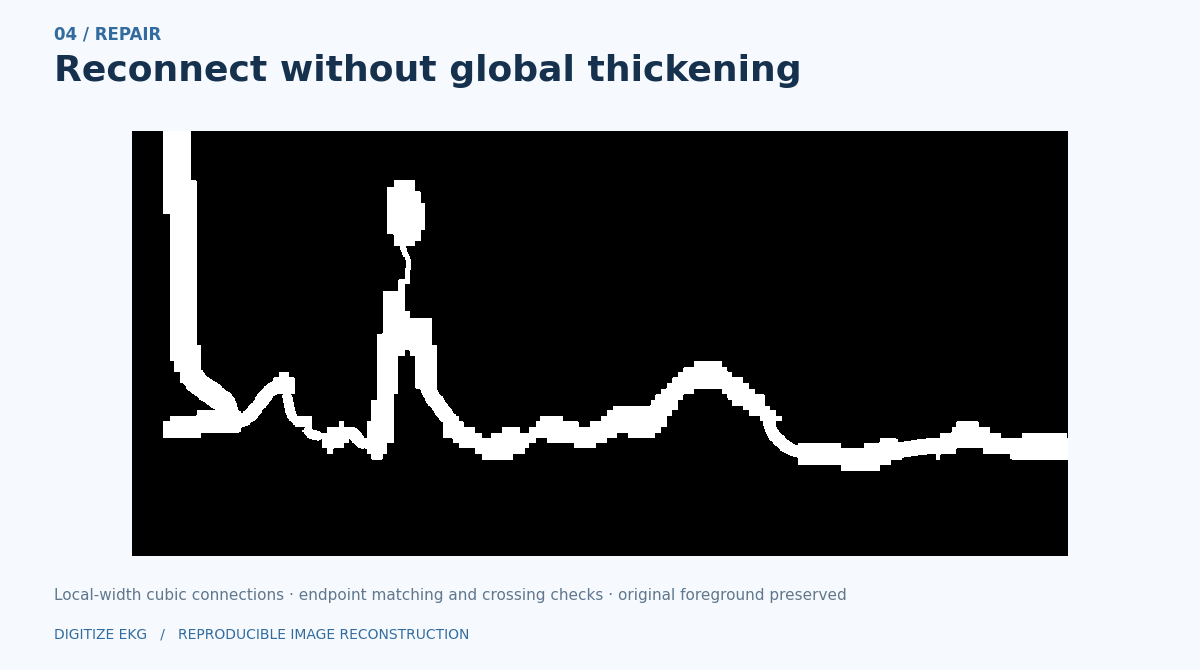
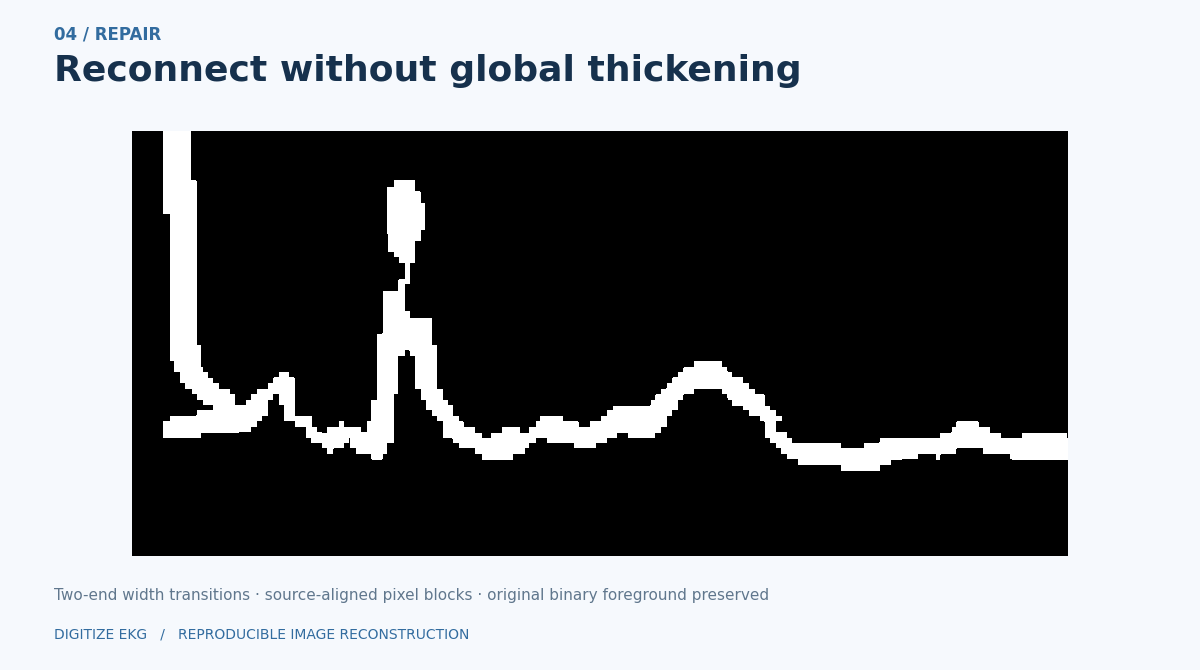
Match ECG bridges to source pixel blocks and endpoint widths

diff --git a/ecg_reconstruction.py b/ecg_reconstruction.py
@@ -8,6 +8,90 @@ import numpy as np
 from skimage.morphology import skeletonize
 
 
+@dataclass(frozen=True)
+class PixelGrid:
+    """Display-block spacing and edge phase, in input-image pixels."""
+
+    step_x: float
+    step_y: float
+    offset_x: float = 0.0
+    offset_y: float = 0.0
+
+    def __post_init__(self):
+        for step, offset in [(self.step_x, self.offset_x), (self.step_y, self.offset_y)]:
+            if not math.isfinite(step) or step < 1 or not math.isfinite(offset):
+                raise ValueError('Pixel-grid steps must be finite and at least one pixel; offsets must be finite.')
+
+
+def estimate_pixel_grid(binary):
+    """Find a strong, repeated edge lattice in a block-scaled binary image.
+
+    Searches 2–12 pixel display blocks independently on each axis. Returns None
+    when either axis has too few edges or weak periodic evidence.
+    This estimates display pixel blocks, not physical time/voltage calibration.
+    """
+    mask = np.asarray(binary) != 0
+    if mask.ndim != 2:
+        raise ValueError('Expected a 2D binary mask.')
+    estimates = []
+    periods = np.linspace(2.0, 12.0, 10001)
+    for axis in (1, 0):
+        weights = np.abs(np.diff(mask.astype(float), axis=axis)).sum(axis=1-axis)
+        positions = np.flatnonzero(weights) + 1
+        if len(positions) < 20:
+            return None
+        weights = weights[positions-1]
+        responses = []
+        for chunk in np.array_split(periods, 50):
+            response = (np.exp(2j*np.pi*positions[None, :]/chunk[:, None])*weights).sum(axis=1)
+            responses.extend(np.abs(response) / weights.sum())
+        responses = np.array(responses)
+        peak = float(responses.max())
+        if peak < .78:
+            return None
+        # Prefer the fundamental period over its shorter harmonic at a tie.
+        choices = np.flatnonzero(responses >= peak - 1e-6)
+        period = float(periods[choices[-1]])
+        z = (np.exp(2j*np.pi*positions/period)*weights).sum()
+        offset = float(np.angle(z)*period/(2*np.pi) % period)
+        estimates.append((period, offset))
+    return PixelGrid(estimates[0][0], estimates[1][0], estimates[0][1], estimates[1][1])
+
+
+def _grid_projection(image, grid):
+    """Sample the new stroke on a source-aligned coarse lattice only."""
+    maps = []
+    for length, step, offset in [(image.shape[1], grid.step_x, grid.offset_x),
+                                 (image.shape[0], grid.step_y, grid.offset_y)]:
+        k0 = math.floor(-offset/step)-1
+        k1 = math.ceil((length-offset)/step)+1
+        edges = np.unique(np.rint(offset + np.arange(k0, k1+1)*step).astype(int))
+        index = np.searchsorted(edges, np.arange(length), side='right')-1
+        centers = np.rint((edges[:-1]+edges[1:]-1)/2).astype(int)
+        maps.append(np.clip(centers[index], 0, length-1))
+    return image[np.ix_(maps[1], maps[0])]
+
+
+def _paint_connection(shape, points, a, b, grid):
+    """Blend the two local widths; optionally retain the source's block size."""
+    width_a = max(1.0, a.width-1.0)
+    width_b = max(1.0, b.width-1.0)
+    lengths = np.linalg.norm(np.diff(points.astype(float), axis=0), axis=1)
+    distance = np.r_[0.0, np.cumsum(lengths)]
+    t = distance / max(distance[-1], 1.0)
+    # A smooth width transition meets each end without a thin, constant neck.
+    blend = t*t*(3-2*t)
+    widths = width_a + (width_b-width_a)*blend
+    bridge = np.zeros(shape, dtype=np.uint8)
+    for index in range(len(points)-1):
+        thickness = max(1, int(round((widths[index]+widths[index+1])/2)))
+        cv2.line(bridge, tuple(points[index]), tuple(points[index+1]), 255,
+                 thickness=thickness, lineType=cv2.LINE_8)
+    if grid is not None:
+        bridge = _grid_projection(bridge, grid)
+    return bridge, [max(1, int(round(width_a))), max(1, int(round(width_b)))]
+
+
 @dataclass
 class Endpoint:
     xy: np.ndarray
@@ -93,13 +177,15 @@ def _curve(a, b, span):
 
 
 def repair_trace(binary, *, max_gap=65.0, tangent_span=15.0,
-                 max_endpoint_angle=110.0, max_mean_angle=70.0):
+                 max_endpoint_angle=110.0, max_mean_angle=70.0, pixel_grid=None):
     """Reconnect compatible endpoints without thickening the existing trace.
 
     Input is a 2D binary mask with nonzero foreground. Matching uses outward
     tangents, distinct components, one connection per endpoint, and collision
-    checks. Uncertain or obstructed pairs remain disconnected. All distances
-    are in pixels; this function does not infer calibrated ECG samples.
+    checks. Width transitions match both endpoints. An optional PixelGrid keeps
+    newly drawn connections on the source block lattice. Uncertain or obstructed
+    pairs remain disconnected. All distances are in pixels; this function does
+    not infer calibrated ECG samples.
     """
     array = np.asarray(binary)
     if array.ndim != 2 or array.size == 0:
@@ -147,10 +233,7 @@ def repair_trace(binary, *, max_gap=65.0, tangent_span=15.0,
         if i in used or j in used or root(a.component) == root(b.component):
             continue
         points = _curve(a, b, tangent_span)
-        # Match the thinner local trace; bounding-box width is not line width.
-        line_width = max(1, int(round(min(a.width, b.width))) - 1)
-        bridge = np.zeros(mask.shape, dtype=np.uint8)
-        cv2.polylines(bridge, [points], False, 255, thickness=line_width, lineType=cv2.LINE_8)
+        bridge, endpoint_widths = _paint_connection(mask.shape, points, a, b, pixel_grid)
         # Reject crossings of a third component, including the bridge's width.
         third = mask & (components != a.component) & (components != b.component)
         if np.any((bridge != 0) & third):
@@ -162,6 +245,12 @@ def repair_trace(binary, *, max_gap=65.0, tangent_span=15.0,
         outside_caps = (bridge != 0) & (caps == 0)
         if np.any(outside_caps & (mask | (added != 0))):
             continue
+        if pixel_grid is not None:
+            # Coarse sampling can erase a narrow section. Accept only a real
+            # connection, with no detached blocks, before updating the graph.
+            joined = (bridge != 0) | (components == a.component) | (components == b.component)
+            if cv2.connectedComponents(joined.astype(np.uint8), connectivity=8)[0] != 2:
+                continue
         new_pixels = (bridge != 0) & ~mask
         if not np.any(new_pixels):
             continue
@@ -169,7 +258,7 @@ def repair_trace(binary, *, max_gap=65.0, tangent_span=15.0,
         parent[root(a.component)] = root(b.component)
         used.update((i, j))
         bridges.append({'start_xy': a.xy.astype(int).tolist(), 'end_xy': b.xy.astype(int).tolist(),
-                        'gap_px': round(gap, 3), 'width_px': line_width,
+                        'gap_px': round(gap, 3), 'endpoint_widths_px': endpoint_widths,
                         'endpoint_angles_deg': [round(angle_a, 2), round(angle_b, 2)],
                         'score': round(score, 3), 'path_xy': points.tolist()})
     output = (mask.astype(np.uint8) * 255) | added

diff --git a/scripts/build_demo.py b/scripts/build_demo.py
@@ -43,8 +43,9 @@ cv2.imwrite(str(RAW / 'input-skeleton.png'), skeleton)
 added = cv2.imread(str(OUTPUTS / 'tangent-added.png'), cv2.IMREAD_GRAYSCALE)
 repaired_skeleton = cv2.imread(str(OUTPUTS / 'tangent-skeleton.png'), cv2.IMREAD_GRAYSCALE)
 bridge_records = json.loads((OUTPUTS / 'tangent-bridges.json').read_text())
+pixel_grid = json.loads((OUTPUTS / 'tangent-grid.json').read_text())
 pairs = len(bridge_records)
-for name in ['tangent-added.png', 'tangent-skeleton.png', 'tangent-bridges.json']:
+for name in ['tangent-added.png', 'tangent-skeleton.png', 'tangent-bridges.json', 'tangent-grid.json']:
     shutil.copyfile(OUTPUTS / name, RAW / name)
 debug = cv2.cvtColor(((source > 127) * 255).astype(np.uint8), cv2.COLOR_GRAY2RGB)
 debug[added > 0] = [232, 164, 76]
@@ -61,7 +62,7 @@ stages = [
     ('03 / CONNECTIONS', 'Inspect the accepted bridges', debug,
      f'{pairs} accepted bridges · amber = newly added pixels · white = original binary foreground'),
     ('04 / REPAIR', 'Reconnect without global thickening', results['tangent-bridged'],
-     'Local-width cubic connections · endpoint matching and crossing checks · original foreground preserved'),
+     'Two-end width transitions · source-aligned pixel blocks · original binary foreground preserved'),
     ('05 / REVIEW', 'Review the repaired centerline', repaired_skeleton,
      'Skeleton of the repaired image · inferred connections require review against the source'),
 ]
@@ -103,12 +104,44 @@ fig.text(.035, .041, '8-connected foreground components on this crop only. Fewer
 fig.savefig(ASSETS / 'method-comparison.png', dpi=150, facecolor=BG)
 plt.close(fig)
 
+# Same-coordinate, nearest-neighbor close-ups preserve the actual pixel grain.
+# The previous result is a frozen output from commit 987aff9, not a rerender.
+prior = cv2.imread(str(RAW / 'prior-tangent-bridged.png'), cv2.IMREAD_GRAYSCALE)
+if prior is None or prior.shape != source.shape:
+    raise ValueError('The historical repair snapshot is missing or has the wrong shape.')
+fig, axes = plt.subplots(2, 3, figsize=(12, 9), dpi=100, facecolor=BG)
+fig.subplots_adjust(left=.045, right=.955, top=.82, bottom=.11, hspace=.22, wspace=.09)
+fig.text(.045, .95, 'DETAIL / SAME SOURCE PIXELS AT EVERY STAGE', color=BLUE, fontsize=12, weight='bold')
+fig.text(.045, .898, 'Matching the source pixel grid', color=INK, fontsize=25, weight='bold')
+detail_windows = [('Upper gap', 215, 82, 90), ('Descending gap', 565, 245, 90)]
+for row, (region, x, y, size) in enumerate(detail_windows):
+    for col, (title, data) in enumerate([
+        ('Input fragments', ((source > 127)*255).astype(np.uint8)),
+        ('Previous connection', prior),
+        ('Pixel-matched connection', results['tangent-bridged']),
+    ]):
+        ax = axes[row, col]
+        ax.imshow(data[y:y+size, x:x+size], cmap='gray', vmin=0, vmax=255, interpolation='nearest')
+        if row == 0:
+            ax.set_title(title, color=INK, fontsize=12, pad=10)
+        if col == 0:
+            ax.set_ylabel(region, color=MUTED, fontsize=11, labelpad=12)
+        ax.set_xticks([])
+        ax.set_yticks([])
+        for spine in ax.spines.values():
+            spine.set_color('#d9e5f0')
+fig.text(.045, .067, 'Widths transition between both endpoints; new pixels follow the source’s approximately 5 px blocks.', color=MUTED, fontsize=11)
+fig.text(.045, .039, 'Two 90 × 90 px crops · identical coordinates and magnification · original binary foreground preserved', color=MUTED, fontsize=10)
+fig.savefig(ASSETS / 'pixel-detail.png', dpi=100, facecolor=BG)
+plt.close(fig)
+
 metrics = {
     'source': 'result/example.png',
     'shape_height_width': list(source.shape),
     'connectivity': 8,
     'foreground_components': counts,
     'tangent_repair': {'max_gap_px': 65, 'tangent_span_px': 15, 'accepted_bridges': pairs,
+                       'source_display_grid': pixel_grid,
                        'added_foreground_pixels': int(np.count_nonzero(added)),
                        'original_foreground_preserved': bool(np.all(results['tangent-bridged'][source > 127] == 255))},
     'interpretation': 'Connectivity counts for one repository crop; not waveform accuracy or clinical validation.',
@@ -145,4 +178,4 @@ for name, title, width in [('python','Python',75),('opencv','OpenCV',84),('skima
     content+=text(width/2,17,title,12,'#426b8d',600,'text-anchor="middle"')
     svg(name+'.svg',width,26,content,title)
 print(json.dumps(metrics, indent=2))
-print('Built header, technology labels, walkthrough, and method comparison.')
+print('Built header, technology labels, walkthrough, method comparison, and pixel close-ups.')

diff --git a/tests/test_reconstruction.py b/tests/test_reconstruction.py
@@ -5,7 +5,7 @@ import cv2
 import numpy as np
 from skimage.measure import label
 
-from ecg_reconstruction import repair_trace
+from ecg_reconstruction import PixelGrid, estimate_pixel_grid, repair_trace
 
 
 def components(image):
@@ -86,6 +86,55 @@ class ReconstructionTests(unittest.TestCase):
         self.assertEqual(result.bridges, [])
         self.assertFalse(np.any(result.image))
 
+    def test_unequal_widths_meet_both_ends_without_a_thin_neck(self):
+        image = np.zeros((110, 220), np.uint8)
+        cv2.line(image, (15, 55), (83, 55), 255, 5)
+        cv2.line(image, (133, 55), (205, 55), 255, 15)
+        result = repair_trace(image, max_gap=70)
+        widths = np.count_nonzero(result.image, axis=0)
+        self.assertEqual(components(result.image), 1)
+        self.assertEqual(len(result.bridges), 1)
+        self.assertEqual(widths[88], widths[75])
+        self.assertEqual(widths[123], widths[150])
+        self.assertTrue(np.all(np.diff(widths[88:124]) >= 0))
+        self.assertGreater(widths[110], widths[88])
+        self.assertTrue(np.all(result.image[image != 0] == 255))
+
+    def test_coarse_connections_preserve_pixel_blocks_and_phase(self):
+        low = np.zeros((36, 64), np.uint8)
+        cv2.line(low, (4, 18), (59, 18), 255, 2)
+        truth = np.repeat(np.repeat(low, 5, axis=0), 5, axis=1)
+        broken = truth.copy()
+        broken[:, 135:170] = 0
+        for dx, dy in [(0, 0), (2, 3)]:
+            image = np.pad(broken, ((dy, 5-dy), (dx, 5-dx)))
+            expected = np.pad(truth, ((dy, 5-dy), (dx, 5-dx)))
+            result = repair_trace(image, max_gap=60, pixel_grid=PixelGrid(5, 5, dx, dy))
+            self.assertEqual(len(result.bridges), 1)
+            self.assertEqual(components(result.image), 1)
+            self.assertTrue(np.array_equal(result.image, expected))
+            cells = result.image[dy:dy+180, dx:dx+320].reshape(36, 5, 64, 5)
+            self.assertTrue(np.all(cells.min(axis=(1, 3)) == cells.max(axis=(1, 3))))
+
+    def test_display_grid_estimate_recovers_scale_and_phase(self):
+        low = np.zeros((80, 100), np.uint8)
+        x = np.arange(5, 95)
+        y = np.rint(40 + 27*np.sin(x/9)).astype(int)
+        cv2.polylines(low, [np.column_stack([x, y]).astype(np.int32)], False, 255, 3)
+        image = np.pad(np.repeat(np.repeat(low, 5, axis=0), 5, axis=1), ((3, 2), (2, 3)))
+        grid = estimate_pixel_grid(image)
+        self.assertIsNotNone(grid)
+        for actual, expected in [(grid.step_x, 5), (grid.step_y, 5),
+                                 (grid.offset_x, 2), (grid.offset_y, 3)]:
+            self.assertAlmostEqual(actual, expected, places=2)
+
+    def test_grid_estimation_does_not_force_weak_or_sparse_evidence(self):
+        noise = np.random.default_rng(42).integers(0, 2, (120, 150), dtype=np.uint8)
+        self.assertIsNone(estimate_pixel_grid(noise))
+        line = np.zeros((60, 90), np.uint8)
+        line[25:30, 10:80] = 255
+        self.assertIsNone(estimate_pixel_grid(line))
+
     def test_invalid_inputs_are_rejected(self):
         with self.assertRaises(ValueError):
             repair_trace(np.zeros((10, 10, 3)))
@@ -93,6 +142,8 @@ class ReconstructionTests(unittest.TestCase):
             repair_trace(np.full((10, 10), 127))
         with self.assertRaises(ValueError):
             repair_trace(np.zeros((10, 10)), max_gap=0)
+        with self.assertRaises(ValueError):
+            PixelGrid(0, 5)
 
 
 if __name__ == '__main__':

diff --git a/README.md b/README.md
@@ -36,7 +36,10 @@ The current repair implementation is in [ecg_reconstruction.py](./ecg_reconstruc
 - Estimate outward directions from **local skeleton neighborhoods**, with stable end-cap alignment on straight traces.
 - Pair endpoints from different components using distance and direction; allow at most one new connection per endpoint.
 - Reject crossings and connections that would shortcut an already connected component.
-- Draw **cubic connections at the local trace width**, then merge only newly added pixels. The existing binary foreground stays intact.
+- Draw **cubic connections that transition between both endpoint widths**.
+- For block-scaled inputs, align new connections with the source's **pixel-block spacing and phase**. Merge only new pixels; the existing binary foreground stays intact.
+
+The included crop has approximately 5-pixel blocks. The notebook estimates this display grid from repeated foreground edges; weak evidence leaves native pixel rendering in place. This matches image granularity, not physical time–voltage calibration.
 
 ## See the reconstruction
 
@@ -55,7 +58,7 @@ The current repair implementation is in [ecg_reconstruction.py](./ecg_reconstruc
 
 | Method | Implementation | What it explores |
 | --- | --- | --- |
-| **Current: tangent-guided repair** | Local direction estimates, endpoint matching, crossing checks, and cubic gap connections. | Repair gaps while preserving existing binary foreground and matching local trace width. |
+| **Current: tangent-guided repair** | Local direction estimates, endpoint matching, crossing checks, and cubic gap connections. | Preserve existing binary foreground while matching both endpoint widths and the source pixel grid. |
 | **Component-distance baseline** | Find the nearest pixels between component pairs; connect pairs below a distance threshold. | How far connectivity alone can go. Newly added bridges are dilated using an estimated trace thickness. |
 | **Row-wise geometric constraints** | Segment at blank rows, apply morphological closing, and score endpoint pairs by distance plus a slope penalty. | Restrict candidate bridges using horizontal direction, vertical displacement, and skeleton-intersection checks. |
 | **Iterative endpoint variant** | Pair nearby unused endpoints, draw bridges, and rerun with increasing thresholds. | Make the connection process visible through debug overlays and intermediate images. |
@@ -63,6 +66,12 @@ The current repair implementation is in [ecg_reconstruction.py](./ecg_reconstruc
 On the included crop, the current repair adds **nine bridges**, reducing the number of foreground components from ten to one while preserving all original binary foreground pixels. The earlier component baseline also reaches one component, but its global thickness estimate adds much broader connectors. The earlier endpoint method leaves five components.
 
 Connectivity alone does not establish waveform accuracy. The comparison shows the actual added geometry; [demo-metrics.json](./docs/assets/demo-metrics.json) records the component counts and preserved-input check, and [the bridge report](./docs/assets/demo/tangent-bridges.json) records each accepted connection.
+
+### Pixel detail
+
+<img src="./docs/assets/pixel-detail.png" alt="Two enlarged gaps at the same coordinates: original fragments, the earlier thin native-pixel connectors, and the current connections with transitioning widths and source-aligned pixel blocks." width="100%">
+
+Both close-ups use the same source coordinates and nearest-neighbor magnification. The earlier repair used the thinner endpoint width; the current repair meets both ends and keeps the source's coarse staircase edges. The [grid report](./docs/assets/demo/tangent-grid.json) records the estimated spacing and phase.
 
 ### Processing flow
 
@@ -112,7 +121,7 @@ python scripts/build_demo.py
 python -m unittest discover -s tests -v
 ```
 
-Nine tests cover a known straight trace, a curved gap, steep and reflected traces, separated parallel traces, crossing obstruction, an existing connected component, long gaps, empty foreground, and invalid input. These synthetic checks verify geometric behavior; broader waveform-fidelity evaluation needs reference signals.
+Thirteen tests cover straight and curved traces, steep and reflected gaps, parallel traces, crossing obstruction, existing connections, long gaps, empty foreground, and invalid input. They also check unequal endpoint widths, coarse pixel-block alignment, grid-scale estimation, and weak-evidence fallback. These synthetic checks verify geometric behavior; broader waveform-fidelity evaluation needs reference signals.
 
 ### Explore the original waveform data
 

diff --git a/docs/ASSETS.md b/docs/ASSETS.md
@@ -3,7 +3,8 @@
 - **Header and technology labels:** project-specific SVG artwork. The header's ECG illustration is decorative; the reconstruction figures use actual results.
 - **Walkthrough:** the original `result/example.png` crop, its skeleton, the current method's added-pixel overlay, repaired mask, and repaired centerline. Amber pixels are newly inferred connections; white pixels in the overlay are the original binary foreground. Frame durations support reading rather than runtime measurement.
 - **Method comparison:** the same input crop, the two earlier component and endpoint outputs, and the current tangent-guided result. Pixel geometry is preserved; the figure adds titles and connectivity counts.
-- **Metrics and bridge report:** counts are computed from the output masks. The report includes every accepted pair, local stroke width, direction scores, and rendered path. These describe one crop, not waveform fidelity.
+- **Pixel close-ups:** two 90 × 90 pixel windows, shown at identical coordinates and magnification with nearest-neighbor sampling. `demo/prior-tangent-bridged.png` is the exact previous output from commit `987aff9`. The current output transitions between both endpoint widths and samples new bridges on the source's estimated display-block lattice; existing binary foreground remains intact.
+- **Metrics and bridge report:** counts are computed from the output masks. The report includes every accepted pair, two endpoint brush widths, direction scores, and centerline path before grid sampling. `demo/tangent-grid.json` records the estimated block spacing and phase. These describe one crop, not waveform fidelity or physical calibration.
 
 To reproduce, run `signal_fixing.ipynb` from the repository root and then `python scripts/build_demo.py`. The script reads the actual output images and bridge report, and rebuilds the figures under `docs/assets/`.
 
